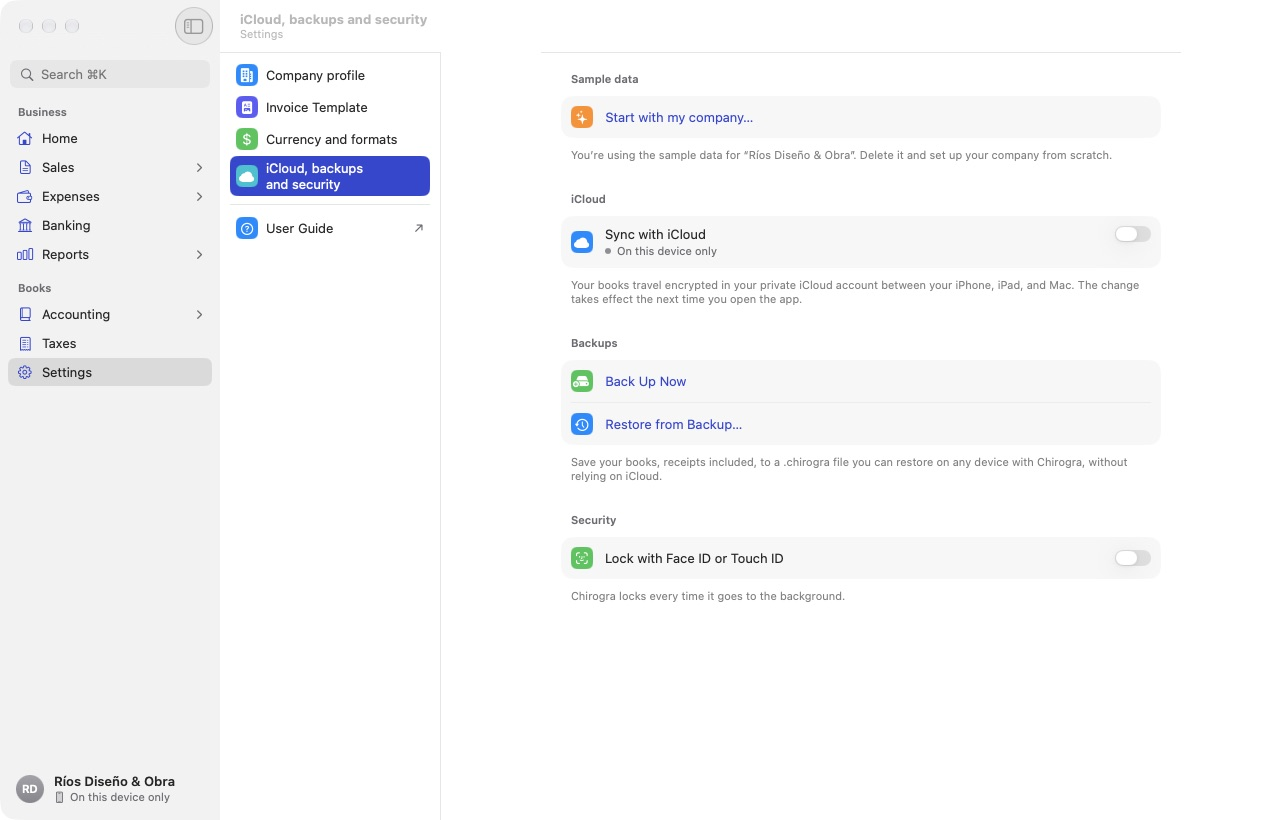
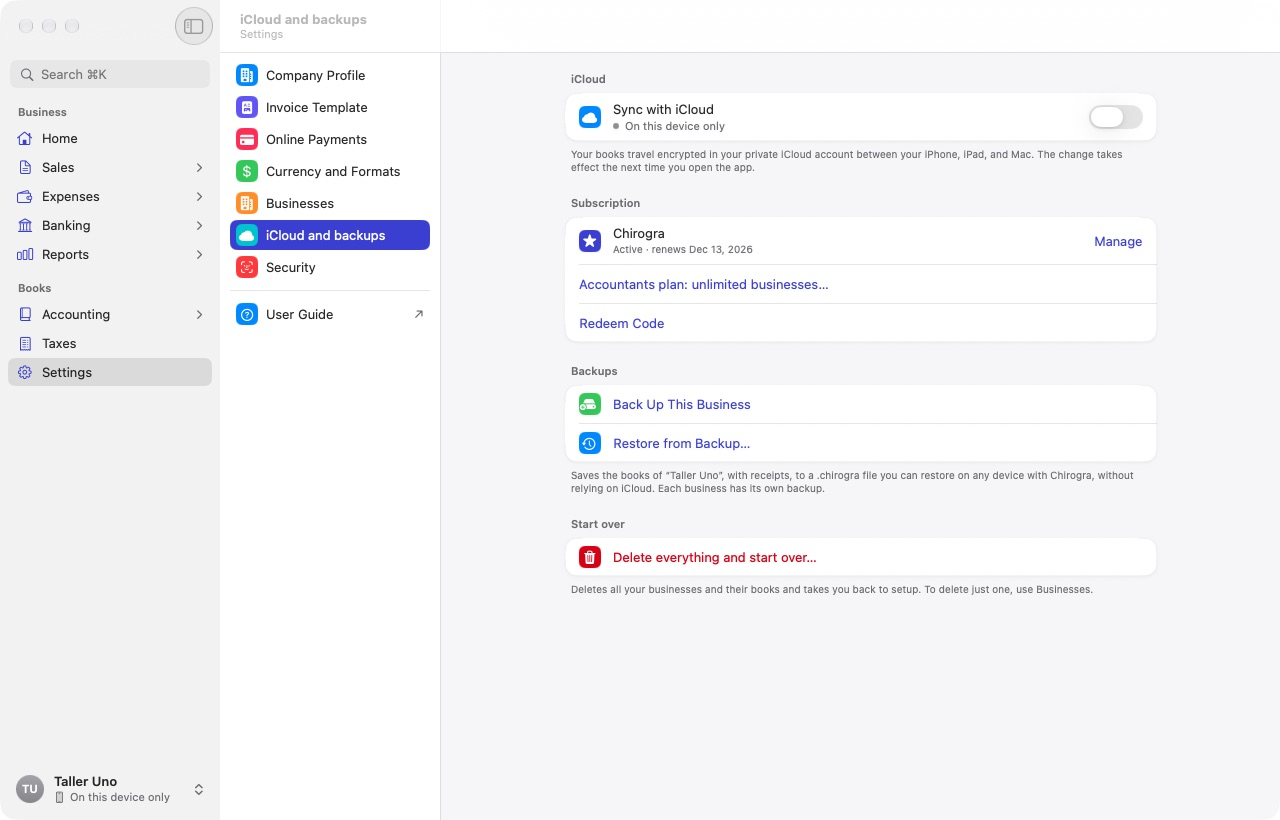
Guía: capturas de «iCloud y copias» al día (Seguridad aparte y «Empezar de cero»)
Claude-Session: https://claude.ai/code/session_0185f7KfNP8eHAZ6R5Kk4do3

diff --git a/sitio/guia/index.html b/sitio/guia/index.html
@@ -398,7 +398,7 @@
   privada de iCloud entre tu iPhone, iPad y Mac.</p>
   <div class="donde"><strong>Importante:</strong> actívalo primero en un solo aparato y espera a que suba. Después
   actívalo en los demás, con la misma cuenta de iCloud.</div>
-  <figure><a href="../img/guia/copias-es.jpg"><img src="../img/guia/copias-es.jpg" alt="iCloud y copias: sincronizar con iCloud, crear copia ahora y restaurar desde una copia" width="1280" height="820" loading="lazy"></a></figure>
+  <figure><a href="../img/guia/copias-es.jpg"><img src="../img/guia/copias-es.jpg" alt="iCloud y copias: sincronizar con iCloud, la suscripción, crear copia de esta empresa, restaurar desde una copia y borrar todo y empezar de cero" width="1280" height="820" loading="lazy"></a></figure>
 
   <h3>Copias de seguridad</h3>
   <p><strong>Crear copia ahora</strong> guarda tus libros, con los recibos, en un archivo <code>.chirogra</code> que

diff --git a/sitio/guide/index.html b/sitio/guide/index.html
@@ -402,7 +402,7 @@
   account between your iPhone, iPad and Mac.</p>
   <div class="donde"><strong>Important:</strong> turn it on first on one device and wait for it to upload. Then turn it
   on on the others, with the same iCloud account.</div>
-  <figure><a href="../img/guia/copias-en.jpg"><img src="../img/guia/copias-en.jpg" alt="iCloud and backups: sync with iCloud, back up now and restore from backup" width="1280" height="820" loading="lazy"></a></figure>
+  <figure><a href="../img/guia/copias-en.jpg"><img src="../img/guia/copias-en.jpg" alt="iCloud and backups: sync with iCloud, subscription, back up this business, restore from backup and delete everything and start over" width="1280" height="820" loading="lazy"></a></figure>
 
   <h3>Backups</h3>
   <p><strong>Back Up Now</strong> saves your books, receipts included, in a <code>.chirogra</code> file you can keep
